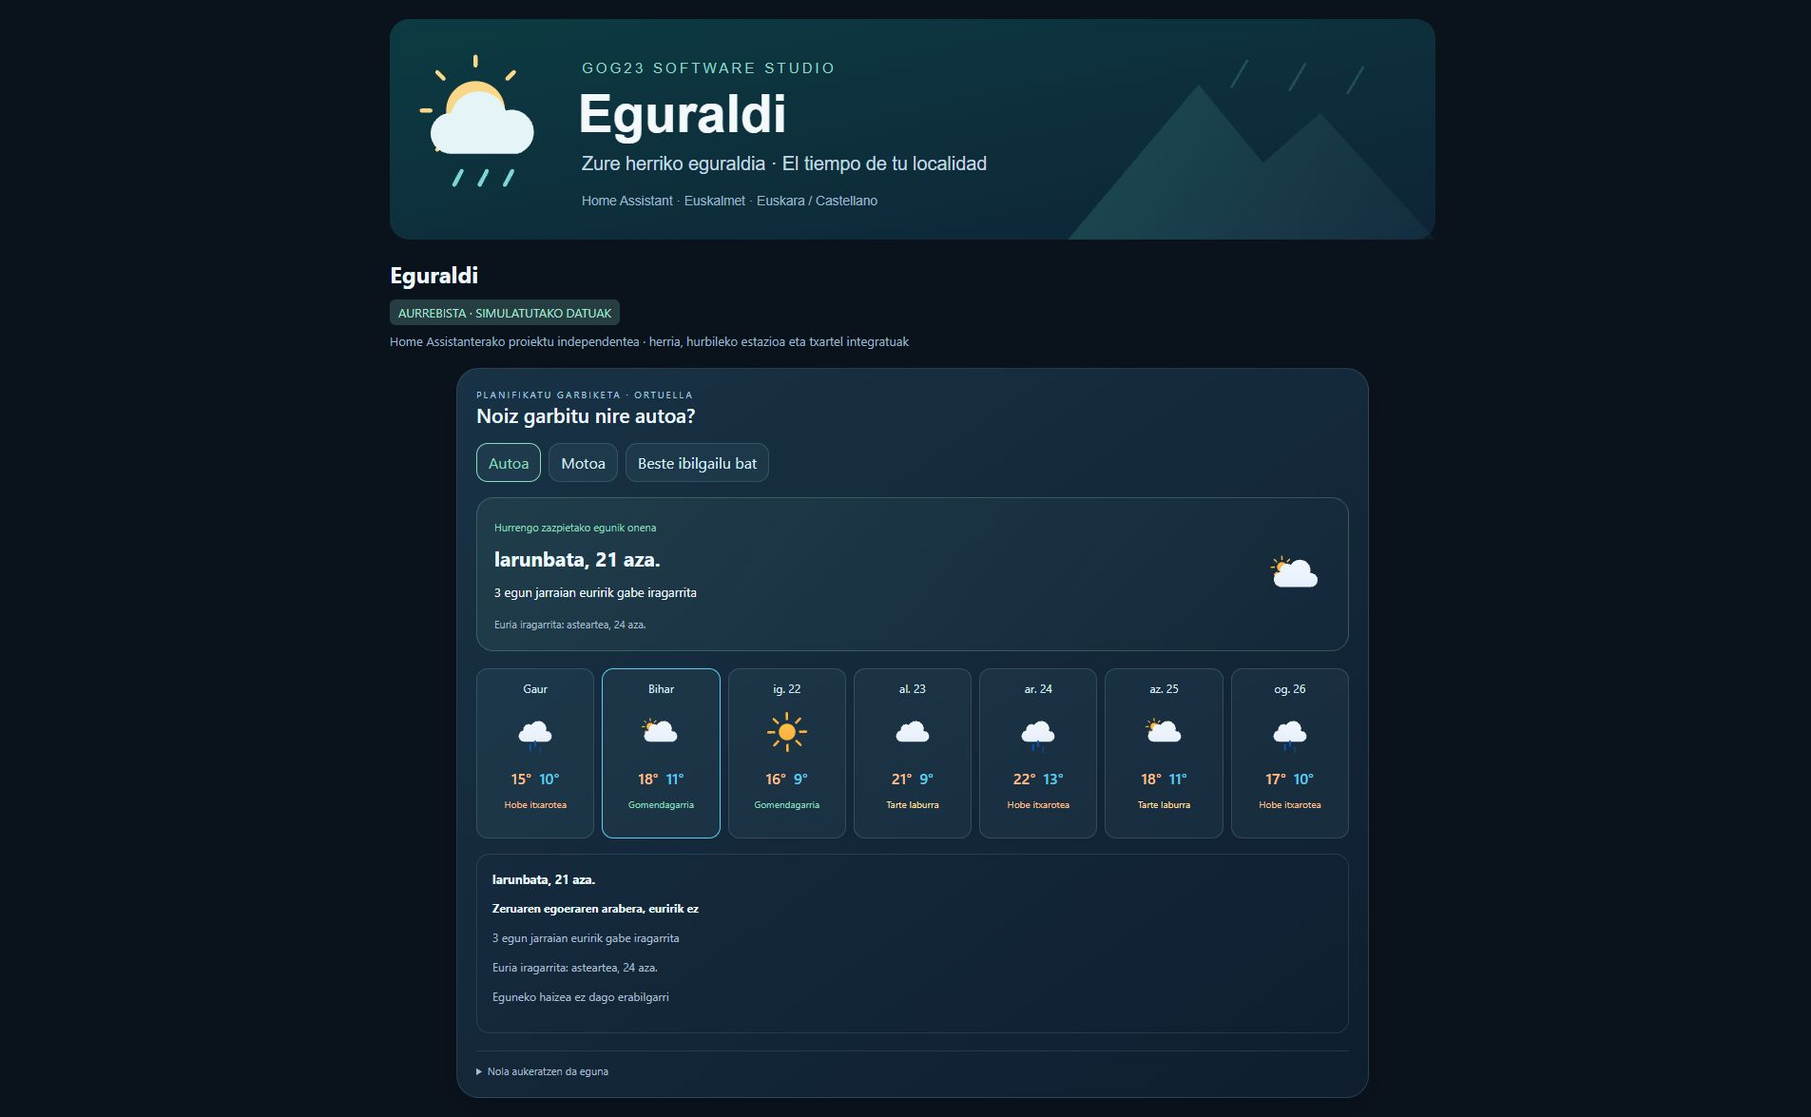
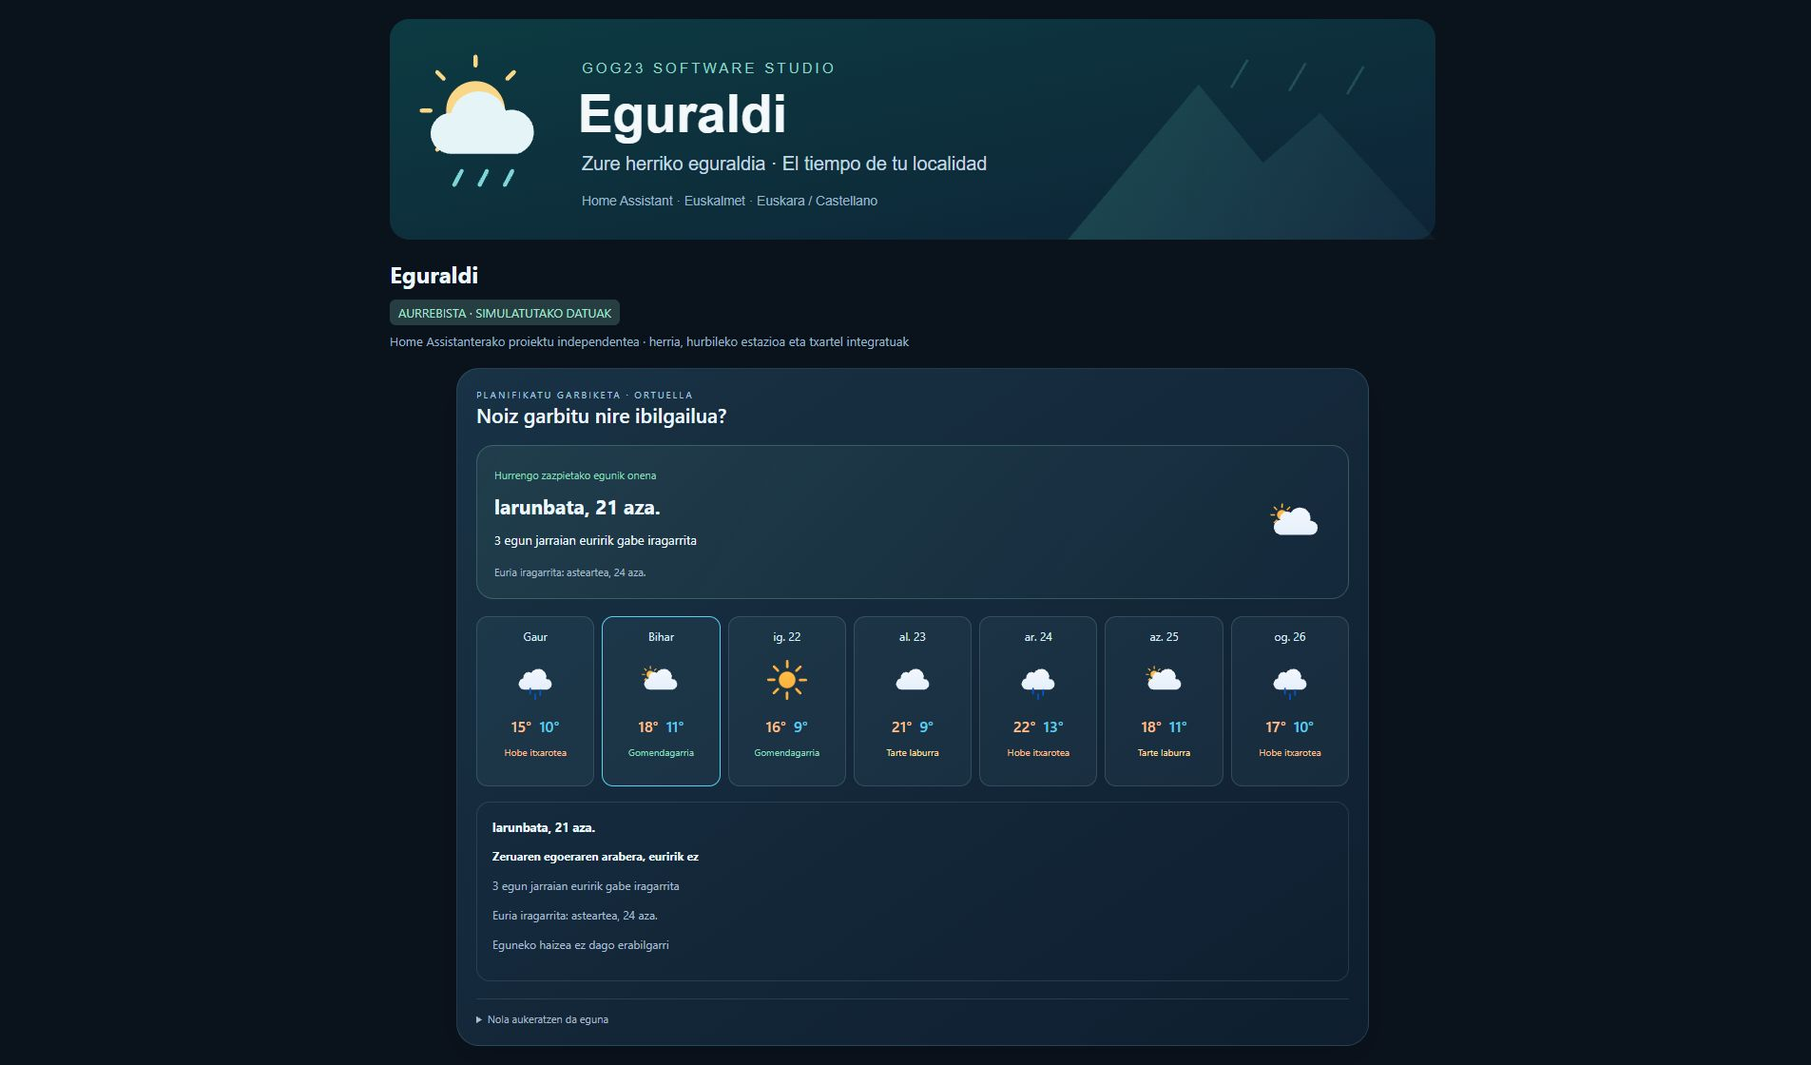
Simplify vehicle washing to a single generic card

diff --git a/custom_components/euskalmet_local/frontend/euskalmet-local-card.js b/custom_components/euskalmet_local/frontend/euskalmet-local-card.js
@@ -1,16 +1,16 @@
-import {vehicleWashPlan} from './eguraldi-vehicle-wash-model.js?v=0.6.0';
-import {openLaundrySettings} from './eguraldi-laundry-settings.js?v=0.6.0';
+import {vehicleWashPlan} from './eguraldi-vehicle-wash-model.js?v=0.6.1';
+import {openLaundrySettings} from './eguraldi-laundry-settings.js?v=0.6.1';
 /* Eguraldi — GOG23 Software Studio. MIT. Icons: Meteocons / Bas Milius. */
-import './euskalmet-alert-card.js?v=0.6.0';
-import './eguraldi-comparison-card.js?v=0.6.0';
-import './eguraldi-microclimate-card.js?v=0.6.0';
-import './euskalmet-history-card.js?v=0.6.0-controls';
-import './euskalmet-radar-map-card.js?v=0.6.0';
+import './euskalmet-alert-card.js?v=0.6.1';
+import './eguraldi-comparison-card.js?v=0.6.1';
+import './eguraldi-microclimate-card.js?v=0.6.1';
+import './euskalmet-history-card.js?v=0.6.1-controls';
+import './euskalmet-radar-map-card.js?v=0.6.1';
 
-import {DRYING_CSS} from './eguraldi-drying-style.js?v=0.6.0';
-import {dryingPlan} from './eguraldi-drying-model.js?v=0.6.0';
+import {DRYING_CSS} from './eguraldi-drying-style.js?v=0.6.1';
+import {dryingPlan} from './eguraldi-drying-model.js?v=0.6.1';
 
-import {outingPlan} from './eguraldi-outing-model.js?v=0.6.0';
+import {outingPlan} from './eguraldi-outing-model.js?v=0.6.1';
 
 const EU_TEXT = {
   "No hay un día con margen suficiente en la previsión":"Ez dago tarte nahikoa duen egunik iragarpenean",
@@ -241,7 +241,7 @@ export class EuskalmetLocalCard extends HTMLElement {
   constructor(){super();this.attachShadow({mode:'open'});this._generation=0;this._forecasts={};this._unsubs=[];this._tab='hourly';}
   setConfig(config){
     if(!['dashboard','overview','hourly','daily','hourly_chart','daily_tiles','planning','drying','outing','vehicle_wash',...EXTRA_MODES].includes(config.mode||'dashboard'))throw Error(this._t('Modo no válido'));
-    this._stop();this._config={...config,mode:config.mode||'dashboard'};this._location=null;this._locations=null;this._forecasts={};this._humidityForecast=[];this._humidityBinding=null;this._dryingSelected=null;this._dryingDuration=null;this._outingSelected=null;this._washVehicle=null;this._washSelected=null;this._outingActivity=null;this._outingMinutes=null;this._error=null;this._start();this._render();
+    this._stop();this._config={...config,mode:config.mode||'dashboard'};this._location=null;this._locations=null;this._forecasts={};this._humidityForecast=[];this._humidityBinding=null;this._dryingSelected=null;this._dryingDuration=null;this._outingSelected=null;this._washSelected=null;this._outingActivity=null;this._outingMinutes=null;this._error=null;this._start();this._render();
   }
   set hass(value){const previous=this._hass;this._hass=value;this._start();const changed=!previous||!this._location||Object.values(this._location.entities).some(id=>previous.states[id]!==value.states[id])||previous.states[this._config?.humidity_forecast_entity]!==value.states[this._config?.humidity_forecast_entity]||previous.config?.time_zone!==value.config?.time_zone||egLocale(previous)!==egLocale(value);if(changed&&!this._renderScheduled){this._renderScheduled=true;queueMicrotask(()=>{this._renderScheduled=false;this._render();});}}
   connectedCallback(){this._start();this._dryingClock=setInterval(()=>{if(['drying','outing','vehicle_wash'].includes(this._config?.mode)||['drying','outing','vehicle_wash'].includes(this._tab))this._render();},60000);}
@@ -374,15 +374,14 @@ export class EuskalmetLocalCard extends HTMLElement {
   }
   _vehicleWash(){
     const weather=this._state('weather'),usable=weather&&!['unknown','unavailable'].includes(weather.state),zone=this._hass?.config?.time_zone||'Europe/Madrid';
-    const plan=vehicleWashPlan(usable?this._forecasts.daily:[],{timeZone:zone,units:this._weather()}),vehicle=this._washVehicle||this._config.wash_vehicle||'car';
-    const title={car:'¿Cuándo lavar mi coche?',motorcycle:'¿Cuándo lavar mi moto?',other:'¿Cuándo lavar mi vehículo?'}[vehicle]||'¿Cuándo lavar mi vehículo?';
+    const plan=vehicleWashPlan(usable?this._forecasts.daily:[],{timeZone:zone,units:this._weather()});
     const date=key=>this._time(key+'T12:00:00Z',{weekday:'long',day:'numeric',month:'short',timeZone:'UTC'}),label=day=>day.index===0?this._t('Hoy'):day.index===1?this._t('Mañana'):this._time(day.key+'T12:00:00Z',{weekday:'short',day:'numeric',timeZone:'UTC'});
     const selected=plan.days.find(d=>d.key===this._washSelected)||plan.best||plan.days[0];
     const status=day=>!day.eligible?'Elige otro día':day.status==='dry'?({good:'Recomendable',short:'Poco margen',limited:'Previsión limitada'}[day.recommendation]):({wet:'Mejor esperar',avoid:'Mejor esperar',unknown:'Sin datos suficientes'}[day.status]);
     const reason=day=>day.reason==='rain'?'Lluvia o condiciones adversas previstas':day.reason==='wind'?'Viento fuerte previsto':day.reason==='cold'?'Frío intenso previsto':day.status==='unknown'?'Falta previsión para este día':'Estado del cielo sin lluvia prevista';
     const window=day=>day.run?(day.run===1?this._t('Un día con previsión sin lluvia'):this._t('{days} días seguidos con previsión sin lluvia',{days:day.run})):this._t('No se identifica un periodo sin lluvia');
     const ending=day=>!day.stop||day.stop.status==='unknown'?this._t('Sin datos para prolongar la comparación'):day.stop.status==='wet'?this._t('La previsión cambia a lluvia el {day}',{day:date(day.stop.key)}):this._t('Condiciones menos favorables el {day}',{day:date(day.stop.key)});
-    return `<section class="wash"><div class="forecast-kicker">${escapeHTML(this._t('Planifica el lavado'))} · ${escapeHTML(this._location.locality)}</div><h2>${escapeHTML(this._t(title))}</h2><div class="wash-controls" role="group" aria-label="${escapeHTML(this._t('Vehículo'))}">${[['car','Coche'],['motorcycle','Moto'],['other','Otro vehículo']].map(([id,name])=>`<button data-wash-vehicle="${id}" aria-pressed="${vehicle===id}">${escapeHTML(this._t(name))}</button>`).join('')}</div><div class="wash-hero ${plan.best?'good':'limited'}"><div><span>${escapeHTML(this._t(plan.best?'Mejor día de los próximos siete':'Mejor esperar'))}</span><strong>${escapeHTML(plan.best?date(plan.best.key):this._t('No hay un día con margen suficiente en la previsión'))}</strong>${plan.best?`<p>${escapeHTML(window(plan.best))}</p><small>${escapeHTML(ending(plan.best))}</small>`:''}</div>${plan.best?this._icon(plan.best.condition,plan.best.key+'T12:00:00Z'):''}</div><div class="wash-week">${plan.days.map(day=>`<button class="wash-day ${day.status} ${day.recommendation||''} ${day.key===selected.key?'selected':''}" data-wash-day="${day.key}" aria-pressed="${day.key===selected.key}"><time>${escapeHTML(label(day))}</time>${this._icon(day.condition,day.key+'T12:00:00Z')}<span class="wash-temperatures"><strong>${fmt(day.high,0)}°</strong><span>${fmt(day.low,0)}°</span></span><small>${escapeHTML(this._t(status(day)))}</small></button>`).join('')}</div><div class="wash-detail"><h3>${escapeHTML(date(selected.key))}</h3><strong>${escapeHTML(this._t(reason(selected)))}</strong>${selected.status==='dry'?`<p>${escapeHTML(window(selected))}</p><span>${escapeHTML(ending(selected))}</span>`:''}<p>${selected.wind===null?escapeHTML(this._t('Viento diario no disponible')):escapeHTML(this._t('Viento previsto'))+': '+fmt(selected.wind,0)+' km/h'}</p></div><details class="dry-method"><summary>${escapeHTML(this._t('Cómo se elige el día'))}</summary>${['Se prioriza la secuencia más larga de días con un estado del cielo sin lluvia. En caso de empate, se elige el primero.','A partir de las 18:00 de HA se recomienda otro día para lavar.',
+    return `<section class="wash"><div class="forecast-kicker">${escapeHTML(this._t('Planifica el lavado'))} · ${escapeHTML(this._location.locality)}</div><h2>${escapeHTML(this._t('¿Cuándo lavar mi vehículo?'))}</h2><div class="wash-hero ${plan.best?'good':'limited'}"><div><span>${escapeHTML(this._t(plan.best?'Mejor día de los próximos siete':'Mejor esperar'))}</span><strong>${escapeHTML(plan.best?date(plan.best.key):this._t('No hay un día con margen suficiente en la previsión'))}</strong>${plan.best?`<p>${escapeHTML(window(plan.best))}</p><small>${escapeHTML(ending(plan.best))}</small>`:''}</div>${plan.best?this._icon(plan.best.condition,plan.best.key+'T12:00:00Z'):''}</div><div class="wash-week">${plan.days.map(day=>`<button class="wash-day ${day.status} ${day.recommendation||''} ${day.key===selected.key?'selected':''}" data-wash-day="${day.key}" aria-pressed="${day.key===selected.key}"><time>${escapeHTML(label(day))}</time>${this._icon(day.condition,day.key+'T12:00:00Z')}<span class="wash-temperatures"><strong>${fmt(day.high,0)}°</strong><span>${fmt(day.low,0)}°</span></span><small>${escapeHTML(this._t(status(day)))}</small></button>`).join('')}</div><div class="wash-detail"><h3>${escapeHTML(date(selected.key))}</h3><strong>${escapeHTML(this._t(reason(selected)))}</strong>${selected.status==='dry'?`<p>${escapeHTML(window(selected))}</p><span>${escapeHTML(ending(selected))}</span>`:''}<p>${selected.wind===null?escapeHTML(this._t('Viento diario no disponible')):escapeHTML(this._t('Viento previsto'))+': '+fmt(selected.wind,0)+' km/h'}</p></div><details class="dry-method"><summary>${escapeHTML(this._t('Cómo se elige el día'))}</summary>${['Se prioriza la secuencia más larga de días con un estado del cielo sin lluvia. En caso de empate, se elige el primero.','A partir de las 18:00 de HA se recomienda otro día para lavar.',
 'Se necesitan al menos dos días consecutivos; los huecos y el final de la previsión limitan la comparación. No se supone tiempo seco después.','La previsión diaria de Euskalmet no facilita probabilidad de lluvia ni viento diario. No se inventan esos valores. Si el proveedor aporta viento fuerte o frío intenso, se descarta ese día.','Coche, moto y otros vehículos usan el mismo criterio meteorológico. No predice cuánto durará limpio el vehículo ni si habrá lluvia en cada hora.'].map(text=>`<p>${escapeHTML(this._t(text))}</p>`).join('')}</details></section>`;
   }
   _outing(){
@@ -452,7 +451,6 @@ export class EuskalmetLocalCard extends HTMLElement {
       }
     }
     this.shadowRoot.querySelectorAll('[data-outing-activity],[data-outing-minutes],[data-outing-start]').forEach(b=>b.addEventListener('click',()=>{let attr;if(b.dataset.outingActivity){this._outingActivity=b.dataset.outingActivity;this._outingSelected=null;attr='data-outing-activity';}else if(b.dataset.outingMinutes){this._outingMinutes=Number(b.dataset.outingMinutes);this._outingSelected=null;attr='data-outing-minutes';}else{this._outingSelected=Number(b.dataset.outingStart);attr='data-outing-start';}const value=b.getAttribute(attr);this._render();this.shadowRoot.querySelector(`[${attr}="${value}"]`)?.focus();}));
-    this.shadowRoot.querySelectorAll('[data-wash-vehicle]').forEach(button=>button.addEventListener('click',()=>{this._washVehicle=button.dataset.washVehicle;this._render();this.shadowRoot.querySelector(`[data-wash-vehicle="${this._washVehicle}"]`)?.focus();}));
     this.shadowRoot.querySelectorAll('[data-wash-day]').forEach(button=>button.addEventListener('click',()=>{this._washSelected=button.dataset.washDay;this._render();this.shadowRoot.querySelector(`[data-wash-day="${this._washSelected}"]`)?.focus();}));
     this.shadowRoot.querySelector('[data-laundry-config]')?.addEventListener('click',()=>{
       if(this._laundrySettings)return;
@@ -566,10 +564,6 @@ class EuskalmetLocalEditor extends HTMLElement {
       if(this._config.map_style&&!['satellite','dark','light'].includes(this._config.map_style)){const option=document.createElement('option');option.value=this._config.map_style;option.textContent=this._config.map_style;mapStyle.append(option);}
       mapStyle.value=this._config.map_style||'satellite';mapStyle.addEventListener('change',()=>this._save({map_style:mapStyle.value}));mapLabel.append(mapStyle);extra.append(mapLabel);
       const zoom=extra.querySelector('input');zoom.value=String(this._config.zoom??10);zoom.addEventListener('change',()=>{const value=Number(zoom.value);if(Number.isFinite(value)&&value>=3&&value<=16)this._save({zoom:value});});
-    }
-    if(this._config.mode==='vehicle_wash'){
-      extra.innerHTML=`<label>${escapeHTML(this._t('Vehículo'))}<select id="eg-wash-vehicle">${[['car','Coche'],['motorcycle','Moto'],['other','Otro vehículo']].map(([id,name])=>`<option value="${id}">${escapeHTML(this._t(name))}</option>`).join('')}</select></label>`;
-      const select=extra.querySelector('select');select.value=this._config.wash_vehicle||'car';select.addEventListener('change',()=>this._save({wash_vehicle:select.value}));
     }
     if(['drying','dashboard'].includes(this._config.mode)){
       const sources=Object.entries(this._hass?.states||{}).filter(([id,state])=>id.startsWith('weather.')&&(Number(state.attributes?.supported_features||0)&2)&&!locations.some(l=>l.entities.weather===id));

diff --git a/custom_components/euskalmet_local/frontend/eguraldi-drying-style.js b/custom_components/euskalmet_local/frontend/eguraldi-drying-style.js
@@ -1,5 +1,5 @@
 export const DRYING_CSS = `
-.wash-controls{display:flex;gap:8px;flex-wrap:wrap;margin:16px 0}.wash-controls button[aria-pressed=true]{color:#8cddba;border-color:#8cddba}.wash-hero{display:flex;align-items:center;gap:12px;padding:18px;border:1px solid #8cddb940;border-radius:18px;background:linear-gradient(120deg,#8cddba13,#68cef305);margin-bottom:18px}.wash-hero>div{flex:1;min-width:0}.wash-hero>div>span{font-size:11px;color:#8cddba}.wash-hero strong{display:block;font-size:21px;margin:10px 0;text-transform:none}.wash-hero p{font-size:13px}.wash-hero small{color:#a9becf;font-size:11px;line-height:1.6}.wash-hero img{width:74px;height:74px;flex-shrink:0}.wash-hero.limited{border-color:#68cef340}.wash-week{display:grid;grid-template-columns:repeat(auto-fit,minmax(90px,1fr));gap:8px}.wash-day{display:flex;align-items:center;flex-direction:column;gap:10px;padding:12px 6px!important;min-width:0}.wash-day.selected{border-color:#68cef3}.wash-day time{font-size:12px}.wash-day img{width:56px;height:56px}.wash-day small{font-size:10px;line-height:1.5;min-height:30px}.wash-day.dry small{color:#8cddba}.wash-day.wet small,.wash-day.avoid small{color:#ffbf83}.wash-temperatures{display:flex;gap:8px;align-items:center;font-size:16px;font-weight:600}.wash-temperatures>strong,.wash-temperatures>span{font-size:16px!important;font-weight:600}.wash-day.short small,.wash-day.limited small{color:#ffdc8e}.wash-temperatures strong{color:#ffbf83}.wash-temperatures>span{color:#68cef3}.wash-detail{border:1px solid #9acdd926;border-radius:14px;padding:16px;margin-top:16px;font-size:12px;line-height:1.6}.wash-detail h3{margin:0 0 10px;font-size:13px;text-transform:none}.wash-detail p,.wash-detail>span{color:#a9becf}.wash .dry-method{margin-top:18px}
+.wash h2{margin-bottom:18px}.wash-hero{display:flex;align-items:center;gap:12px;padding:18px;border:1px solid #8cddb940;border-radius:18px;background:linear-gradient(120deg,#8cddba13,#68cef305);margin-bottom:18px}.wash-hero>div{flex:1;min-width:0}.wash-hero>div>span{font-size:11px;color:#8cddba}.wash-hero strong{display:block;font-size:21px;margin:10px 0;text-transform:none}.wash-hero p{font-size:13px}.wash-hero small{color:#a9becf;font-size:11px;line-height:1.6}.wash-hero img{width:74px;height:74px;flex-shrink:0}.wash-hero.limited{border-color:#68cef340}.wash-week{display:grid;grid-template-columns:repeat(auto-fit,minmax(90px,1fr));gap:8px}.wash-day{display:flex;align-items:center;flex-direction:column;gap:10px;padding:12px 6px!important;min-width:0}.wash-day.selected{border-color:#68cef3}.wash-day time{font-size:12px}.wash-day img{width:56px;height:56px}.wash-day small{font-size:10px;line-height:1.5;min-height:30px}.wash-day.dry small{color:#8cddba}.wash-day.wet small,.wash-day.avoid small{color:#ffbf83}.wash-temperatures{display:flex;gap:8px;align-items:center;font-size:16px;font-weight:600}.wash-temperatures>strong,.wash-temperatures>span{font-size:16px!important;font-weight:600}.wash-day.short small,.wash-day.limited small{color:#ffdc8e}.wash-temperatures strong{color:#ffbf83}.wash-temperatures>span{color:#68cef3}.wash-detail{border:1px solid #9acdd926;border-radius:14px;padding:16px;margin-top:16px;font-size:12px;line-height:1.6}.wash-detail h3{margin:0 0 10px;font-size:13px;text-transform:none}.wash-detail p,.wash-detail>span{color:#a9becf}.wash .dry-method{margin-top:18px}
 
 .laundry-control{display:flex;align-items:center;gap:12px;flex-wrap:wrap;border:1px solid #9acdd930;border-radius:14px;padding:14px;margin:0 0 18px}.laundry-control>div{flex:1;min-width:180px}.laundry-control strong{font-size:13px}.laundry-control span{display:block;font-size:11px;color:#a9becf;margin-top:7px;line-height:1.5}.laundry-control button[aria-pressed=true]{color:#8cddba;border-color:#8cddba}.laundry-control button:disabled{opacity:.5;cursor:default}.laundry-control [data-laundry-config]{font-size:11px;color:#68cef3;white-space:nowrap}
 

diff --git a/docs/preview.html b/docs/preview.html
@@ -6,7 +6,7 @@
 
 <script type="module">
 
-import {EuskalmetLocalCard} from '/euskalmet_local_static/euskalmet-local-card.js?v=0.6.0-controls';
+import {EuskalmetLocalCard} from '/euskalmet_local_static/euskalmet-local-card.js?v=0.6.1-controls';
 
 const now=new Date().setMinutes(0,0,0),loc={entry_id:'demo',locality:'Ortuella',station:'Arboleda',location_source:'home_assistant',distance_km:1.8,latitude:43.31,longitude:-3.05,entities:{weather:'weather.demo',temperature:'sensor.demo_temperature',humidity:'sensor.demo_humidity',precipitation_today:'sensor.demo_rain',temperature_min_today:'sensor.demo_min',temperature_max_today:'sensor.demo_max',wind_gust_max_today:'sensor.demo_gust',irradiance:'sensor.demo_irradiance'}};
 

diff --git a/custom_components/euskalmet_local/frontend/eguraldi-outing-model.js b/custom_components/euskalmet_local/frontend/eguraldi-outing-model.js
@@ -1,5 +1,5 @@
 /* Eguraldi · heuristic weather windows, not a safety assessment · MIT */
-import {dryingHour} from './eguraldi-drying-model.js?v=0.6.0';
+import {dryingHour} from './eguraldi-drying-model.js?v=0.6.1';
 const OUTING_HOUR=3600000, HALF_HOUR=1800000;
 const PROFILES={walk:{cold:0,hot:32,wind:35,gust:50,ideal:18},sport:{cold:2,hot:28,wind:30,gust:45,ideal:14},family:{cold:5,hot:30,wind:25,gust:40,ideal:20}};
 

diff --git a/custom_components/euskalmet_local/dashboard.py b/custom_components/euskalmet_local/dashboard.py
@@ -8,7 +8,7 @@ from homeassistant.helpers import entity_registry as er
 from .const import DOMAIN
 from .microclimate_options import async_register_microclimate_service
 
-VERSION = "0.6.0"
+VERSION = "0.6.1"
 EVENT_LOCATIONS_UPDATED = f"{DOMAIN}_locations_updated"
 
 

diff --git a/docs/VEHICLE_WASH.md b/docs/VEHICLE_WASH.md
@@ -4,17 +4,16 @@ Desde Eguraldi 0.6.0. Vista `vehicle_wash`, disponible en el editor visual y en 
 
 ## Uso
 
-Elige **Coche**, **Moto** u **Otro vehículo**. El editor permite guardar el tipo inicial; los botones de la tarjeta permiten cambiarlo durante la consulta. La selección cambia el título, sin inventar reglas meteorológicas distintas para cada vehículo.
+La vista es genérica para cualquier vehículo, sin elegir coche, moto u otro tipo. El criterio meteorológico es el mismo.
 
 Se muestran siete días de calendario en la zona horaria de HA, incluido hoy. Pulsa un día para ver su valoración y la secuencia disponible. El nombre principal sigue siendo tu localidad; cambiar de localidad actualiza la tarjeta automáticamente.
 
 ```yaml
 type: custom:euskalmet-local-card
 mode: vehicle_wash
-wash_vehicle: motorcycle
 ```
 
-`wash_vehicle`: `car` (predeterminado), `motorcycle` u `other`. Con varias localidades, selecciona una en el editor o usa `entry_id`.
+Con varias localidades, selecciona una en el editor o usa `entry_id`. Las configuraciones antiguas con `wash_vehicle` siguen siendo compatibles: se ignora esa opción.
 
 ## Criterio
 

diff --git a/README.eu.md b/README.eu.md
@@ -19,7 +19,7 @@ Euskalmeteko eguraldia Home Assistanten: hurbileko estazioen neurketak, orduko e
 
 ## Noiz garbitu nire ibilgailua?
 
-Konparatu hurrengo zazpi egunak eta aukeratu **Autoa**, **Motoa** edo **Beste ibilgailu bat**. Euririk gabe iragarritako egun segida luzeenaren lehen eguna nabarmentzen du, gutxienez bi egun jarraian badaude. Egun bakoitza kontsulta dezakezu, iragarpena non aldatzen den edo datuak non falta diren ikusteko.
+Konparatu hurrengo zazpi egunak edozein ibilgailu garbitzeko. Euririk gabe iragarritako egun segida luzeenaren lehen eguna nabarmentzen du, gutxienez bi egun jarraian badaude. Egun bakoitza kontsulta dezakezu, iragarpena non aldatzen den edo datuak non falta diren ikusteko.
 
 Ez du bermatzen zenbat ordu izango diren euririk gabe edo ibilgailuak zenbat iraungo duen garbi. Euskalmet-ek ez du euri probabilitaterik edo haizerik ematen eguneko iragarpenean. Ibilgailu guztiek irizpide bera erabiltzen dute. [Metodoa eta konfigurazioa](docs/VEHICLE_WASH.md) (gaztelaniaz).
 

diff --git a/README.md b/README.md
@@ -28,7 +28,7 @@ El tiempo de Euskalmet en Home Assistant: observaciones de estaciones cercanas, 
 
 ## ¿Cuándo lavar mi vehículo?
 
-Compara los próximos siete días y elige entre **Coche**, **Moto** u **Otro vehículo**. Destaca el primer día de la secuencia más larga con previsión sin lluvia, con al menos dos días consecutivos. Puedes consultar cada día y ver dónde cambia la previsión o faltan datos.
+Compara los próximos siete días para lavar cualquier vehículo. Destaca el primer día de la secuencia más larga con previsión sin lluvia, con al menos dos días consecutivos. Puedes consultar cada día y ver dónde cambia la previsión o faltan datos.
 
 No promete horas de tiempo seco ni cuánto durará limpio: Euskalmet no ofrece probabilidad de lluvia ni viento en la previsión diaria. Todos los vehículos usan el mismo criterio. [Método y configuración](docs/VEHICLE_WASH.md).
 
